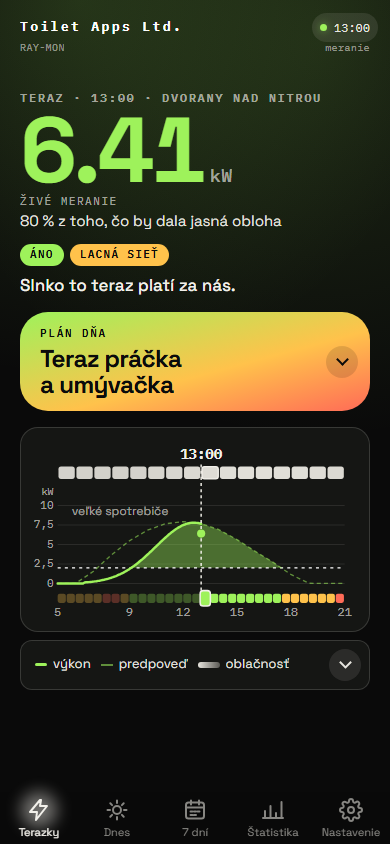
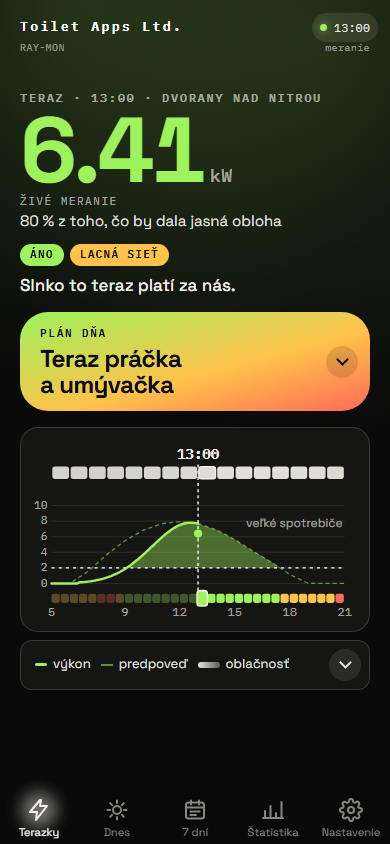
feat: os grafu dňa bez desatín a bez jednotky kW (#386)
## Čo sa mení

Graf dňa (karta Terazky / Teraz a detail dňa na karte 7 dní, obe appky):

- **Os Y bez desatinných miest** – mriežka po 2 kW (0, 2, 4, 6, 8, 10)
namiesto 2,5. Stupnica ostáva pevne do 10 kW, aby sa dni dali porovnať.
- **Bez nápisu `kW`** nad osou – hodnoty pod grafom jednotku nesú, na
osi bola navyše.
- **Širší graf** – stĺpec čísel určovalo `7,5`; s `10` ako najširším
číslom sa ľavý okraj zúžil z 26 na 20 jednotiek viewBoxu
(`DAY_CHART.left`). Pás plánu a oblačnosť idú bližšie k okraju.

Ostatné grafy (stĺpce 7 dní, štatistika) majú vlastnú os a nemenia sa.

## Overenie

- `npm run check` – zelené (500 testov), jednotkový test osi upravený na
`0, 2, 4, 6, 8, 10`
- `npm run test:e2e` – 366 passed
- `npm run screenshots` – zmenila sa `docs/img/terazky.png`

🤖 Generated with [Claude Code](https://claude.com/claude-code)

diff --git a/test/e2e/app.spec.js b/test/e2e/app.spec.js
@@ -285,7 +285,7 @@ test('karta Terazky o 13:00 zodpovedá modelu: číslo, štítky s vetou, graf d
     await expect(page.locator('#tz-chart .dc-real')).toHaveCount(1);
     await expect(page.locator('#tz-chart .dc-over')).toHaveCount(1);
     await expect(page.locator('#tz-chart .dc-limit-t')).toHaveText('veľké spotrebiče');
-    await expect(page.locator('#tz-chart .dc-y:not(.dc-unit)')).toHaveText(m.chart.grid.map((g) => g.label));
+    await expect(page.locator('#tz-chart .dc-y')).toHaveText(m.chart.grid.map((g) => g.label));
     // Os je deň so slnkom: bunky pásu a hodiny pod ním len v nej.
     await expect(page.locator('#tz-chart rect[data-from]')).toHaveCount(m.chart.cells.length);
     await expect(page.locator('#tz-chart .dc-t')).toHaveText(m.chart.ticks.map((t) => t.label));
@@ -607,7 +607,7 @@ test('7 dní na mobile: prehľad dní, detail dňa a návrat späť', async ({ p
     await expect(page.locator('#week-day-chart rect[data-from]')).toHaveCount(graf5.cells.length);
     await expect(page.locator('#week-day-chart .dc-t')).toHaveText(graf5.ticks.map((t) => t.label));
     await expect(page.locator('#week-day-chart .dc-limit-t')).toHaveText(graf5.limitText);
-    await expect(page.locator('#week-day-chart .dc-y:not(.dc-unit)')).toHaveText(graf5.grid.map((g) => g.label));
+    await expect(page.locator('#week-day-chart .dc-y')).toHaveText(graf5.grid.map((g) => g.label));
     await expect(page.locator('#week-day-chart')).toHaveAttribute('aria-label', graf5.desc);
     await expect(page.locator('#week-day-legend span')).toHaveText(graf5.legend.map((l) => l.text));
     await expect(page.locator('#week-curve')).toBeHidden();

diff --git a/shared/day-chart.js b/shared/day-chart.js
@@ -26,7 +26,7 @@ import { DAY_CHART_KEYS, TERAZ_TONES, terazPreviewTime } from './messages-core.j
 export const DAY_CHART = {
     w: 320,
     h: 176,
-    left: 26,
+    left: 20,
     right: 306,
     cloudY: 24,
     cloudH: 12,
@@ -199,7 +199,9 @@ export function dayChartModel({ span, plan, hourly, real, boundary, nowMin, nowK
     const inSpan = (/** @type {{ hour: number }} */ p) => p.hour * 60 >= span.from && p.hour * 60 <= span.to;
     const measured = boundary === null ? [] : real.filter((p) => p.hour * 60 <= boundary && inSpan(p));
     const max = C.maxKw;
-    const step = kwGridStep(max, 4);
+    // Krok 2: čísla osi celé (2,5 by malo desatiny) a úzke, takže graf má viac šírky. Jednotku
+    // os nemá - kW nesú hodnoty pod grafom.
+    const step = kwGridStep(max, 5);
     const y = (/** @type {number} */ kw) => r1(C.base - (Math.min(max, Math.max(0, kw)) / max) * (C.base - C.top));
     const x = (/** @type {number} */ min) => r1(chartX(min, span));
     const limitY = y(limitKw);

diff --git a/test/teraz.test.js b/test/teraz.test.js
@@ -251,10 +251,10 @@ test('dayChartModel: predpoveď, nameraná krivka po hranicu, os kW, oblačnosť
     const ys = (/** @type {string} */ d) => [...d.matchAll(/ (-?[0-9.]+)(?= L|Z)/g)].map((x) => Number(x[1]));
     assert.ok(m.over);
     assert.ok(ys(m.over).every((y) => y <= m.limitY));
-    // Os kW: pevne do 10 kW, nech sa dni dajú porovnať.
+    // Os kW: pevne do 10 kW, nech sa dni dajú porovnať, a celé čísla - bez desatín je stĺpec čísel úzky.
     assert.deepEqual(
         m.grid.map((g) => g.label),
-        ['0', '2,5', '5', '7,5', '10'],
+        ['0', '2', '4', '6', '8', '10'],
     );
     assert.equal(m.grid[0].y, DAY_CHART.base);
     assert.equal(m.grid[m.grid.length - 1].y, DAY_CHART.top);

diff --git a/web/day-chart.js b/web/day-chart.js
@@ -41,9 +41,7 @@ const cloudPct = (pct) => `${Math.round(Math.min(100, Math.max(0, pct)))}%`;
  */
 function labelsHtml(c) {
     const C = DAY_CHART;
-    const axis =
-        c.grid.map((g) => `<span class="dc-y" style="left:${pctX(C.left - 4)};top:${pctY(g.y)}">${g.label}</span>`).join('') +
-        `<span class="dc-y dc-unit" style="left:${pctX(C.left - 4)};top:${pctY(C.top - 14)}">kW</span>`;
+    const axis = c.grid.map((g) => `<span class="dc-y" style="left:${pctX(C.left - 4)};top:${pctY(g.y)}">${g.label}</span>`).join('');
     const ticks = c.ticks
         .map((t) => `<span class="dc-t" style="left:${pctX(t.x)};top:${pctY(C.bandY + C.bandH)}">${t.label}</span>`)
         .join('');

diff --git a/obloha/style.css b/obloha/style.css
@@ -806,9 +806,6 @@ button.live[aria-expanded='true'] {
     font-variant-numeric: tabular-nums;
     transform: translate(-100%, -50%);
 }
-.dc-unit {
-    font-size: 10px;
-}
 /* Nápis hranice: spodkom tesne nad svojím miestom (čiara, alebo voľné miesto nad krivkou),
    zarovnaný k nemu začiatkom alebo koncom. Na grafe širokom aspoň 448 px (wideScale 1,4 v
    shared/day-chart.js) má vlastnú polohu - je tam v pomere ku grafu menší. */

diff --git a/style.css b/style.css
@@ -1062,9 +1062,6 @@ b {
     font-size: 11px;
     transform: translate(-100%, -50%);
 }
-.dc-unit {
-    font-size: 10px;
-}
 /* Nápis hranice: spodkom tesne nad svojím miestom, zarovnaný k nemu začiatkom alebo koncom. Na
    grafe širokom aspoň 448 px (wideScale v shared/day-chart.js) má vlastnú polohu. */
 .dc-limit-t {
